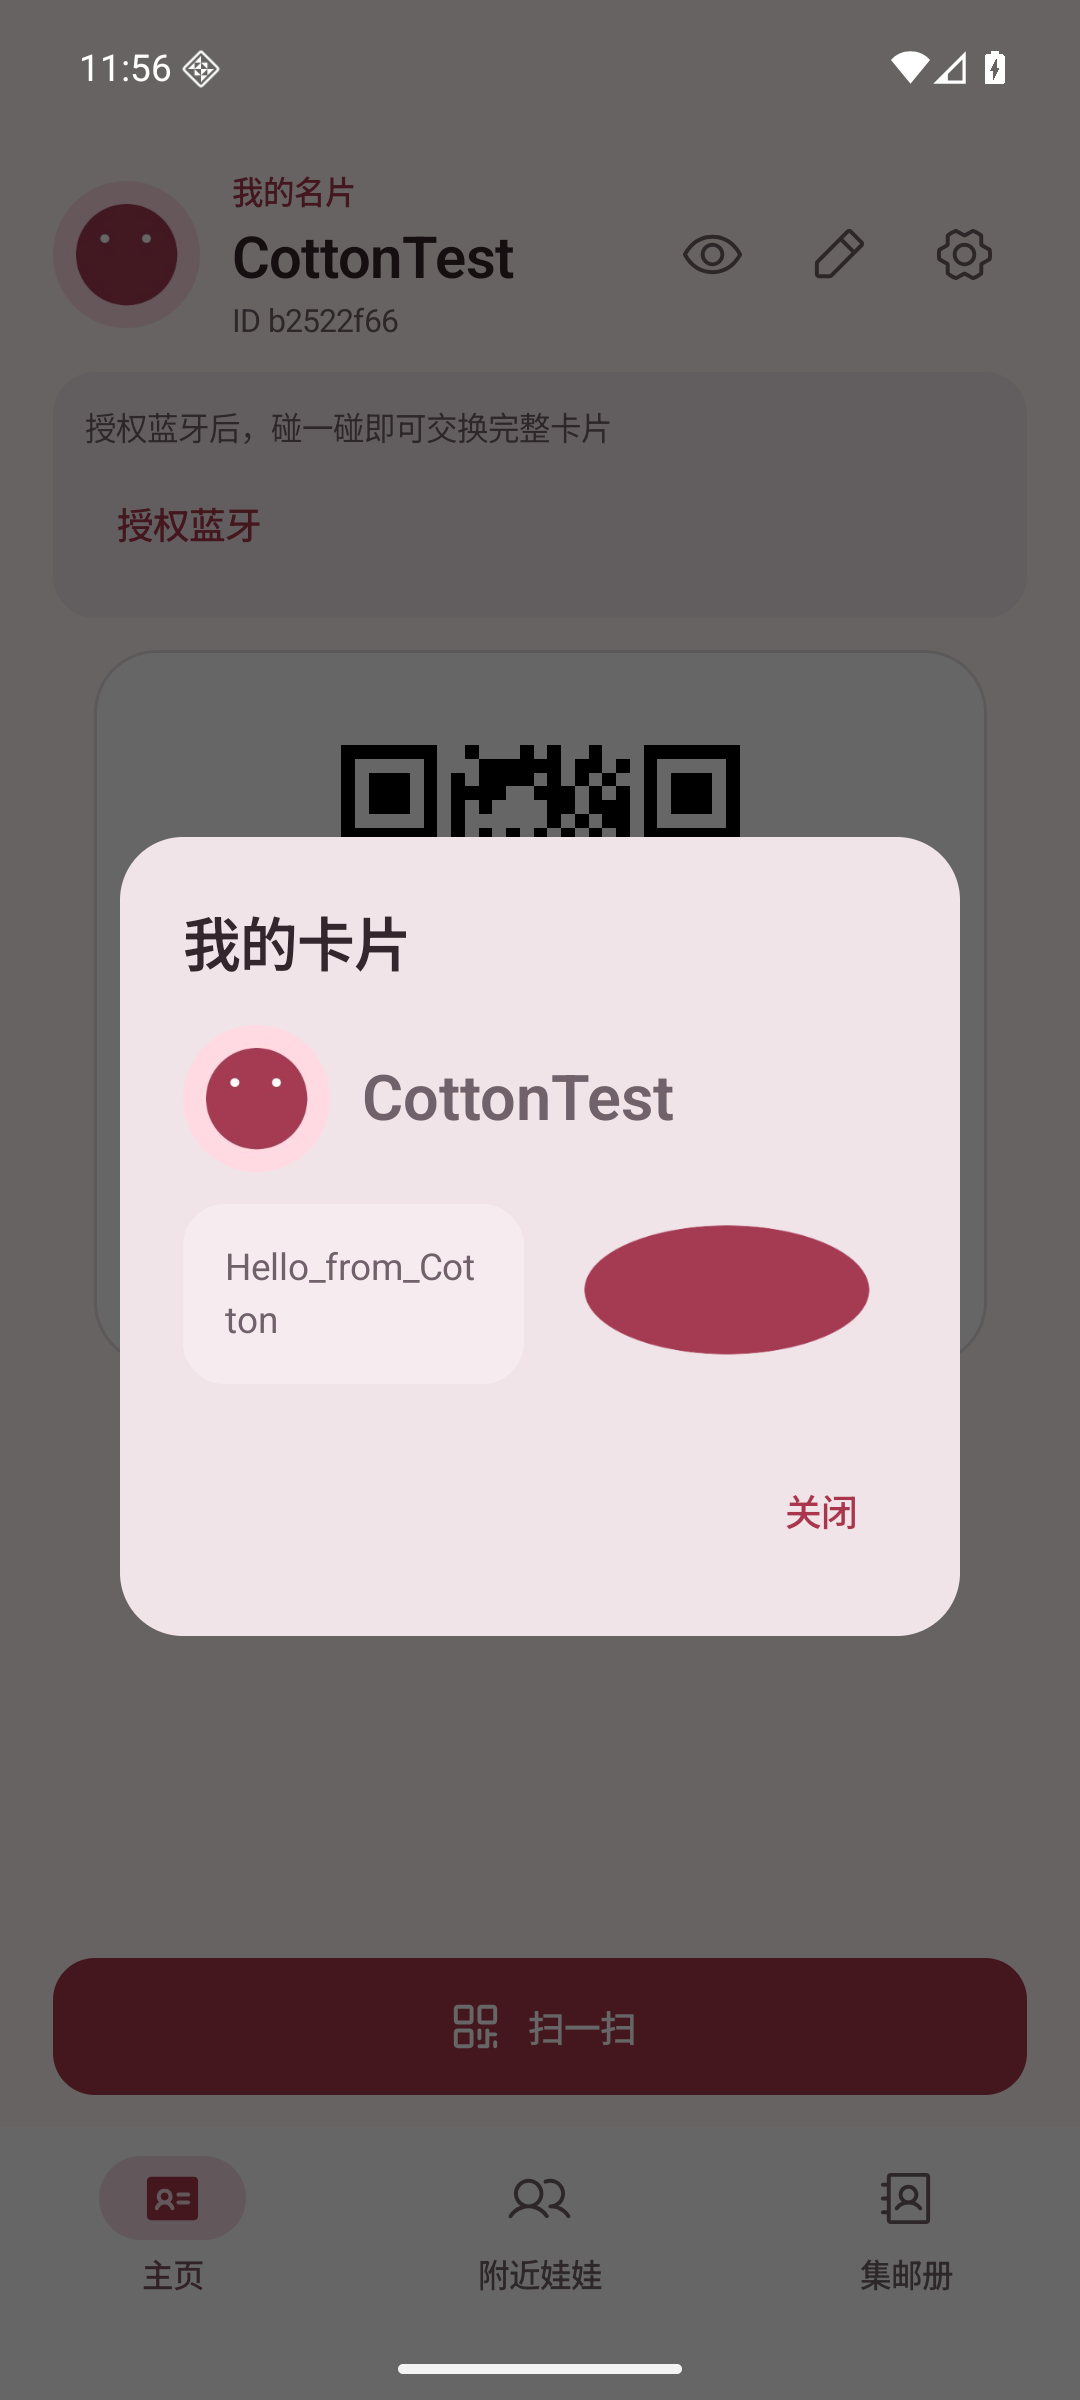
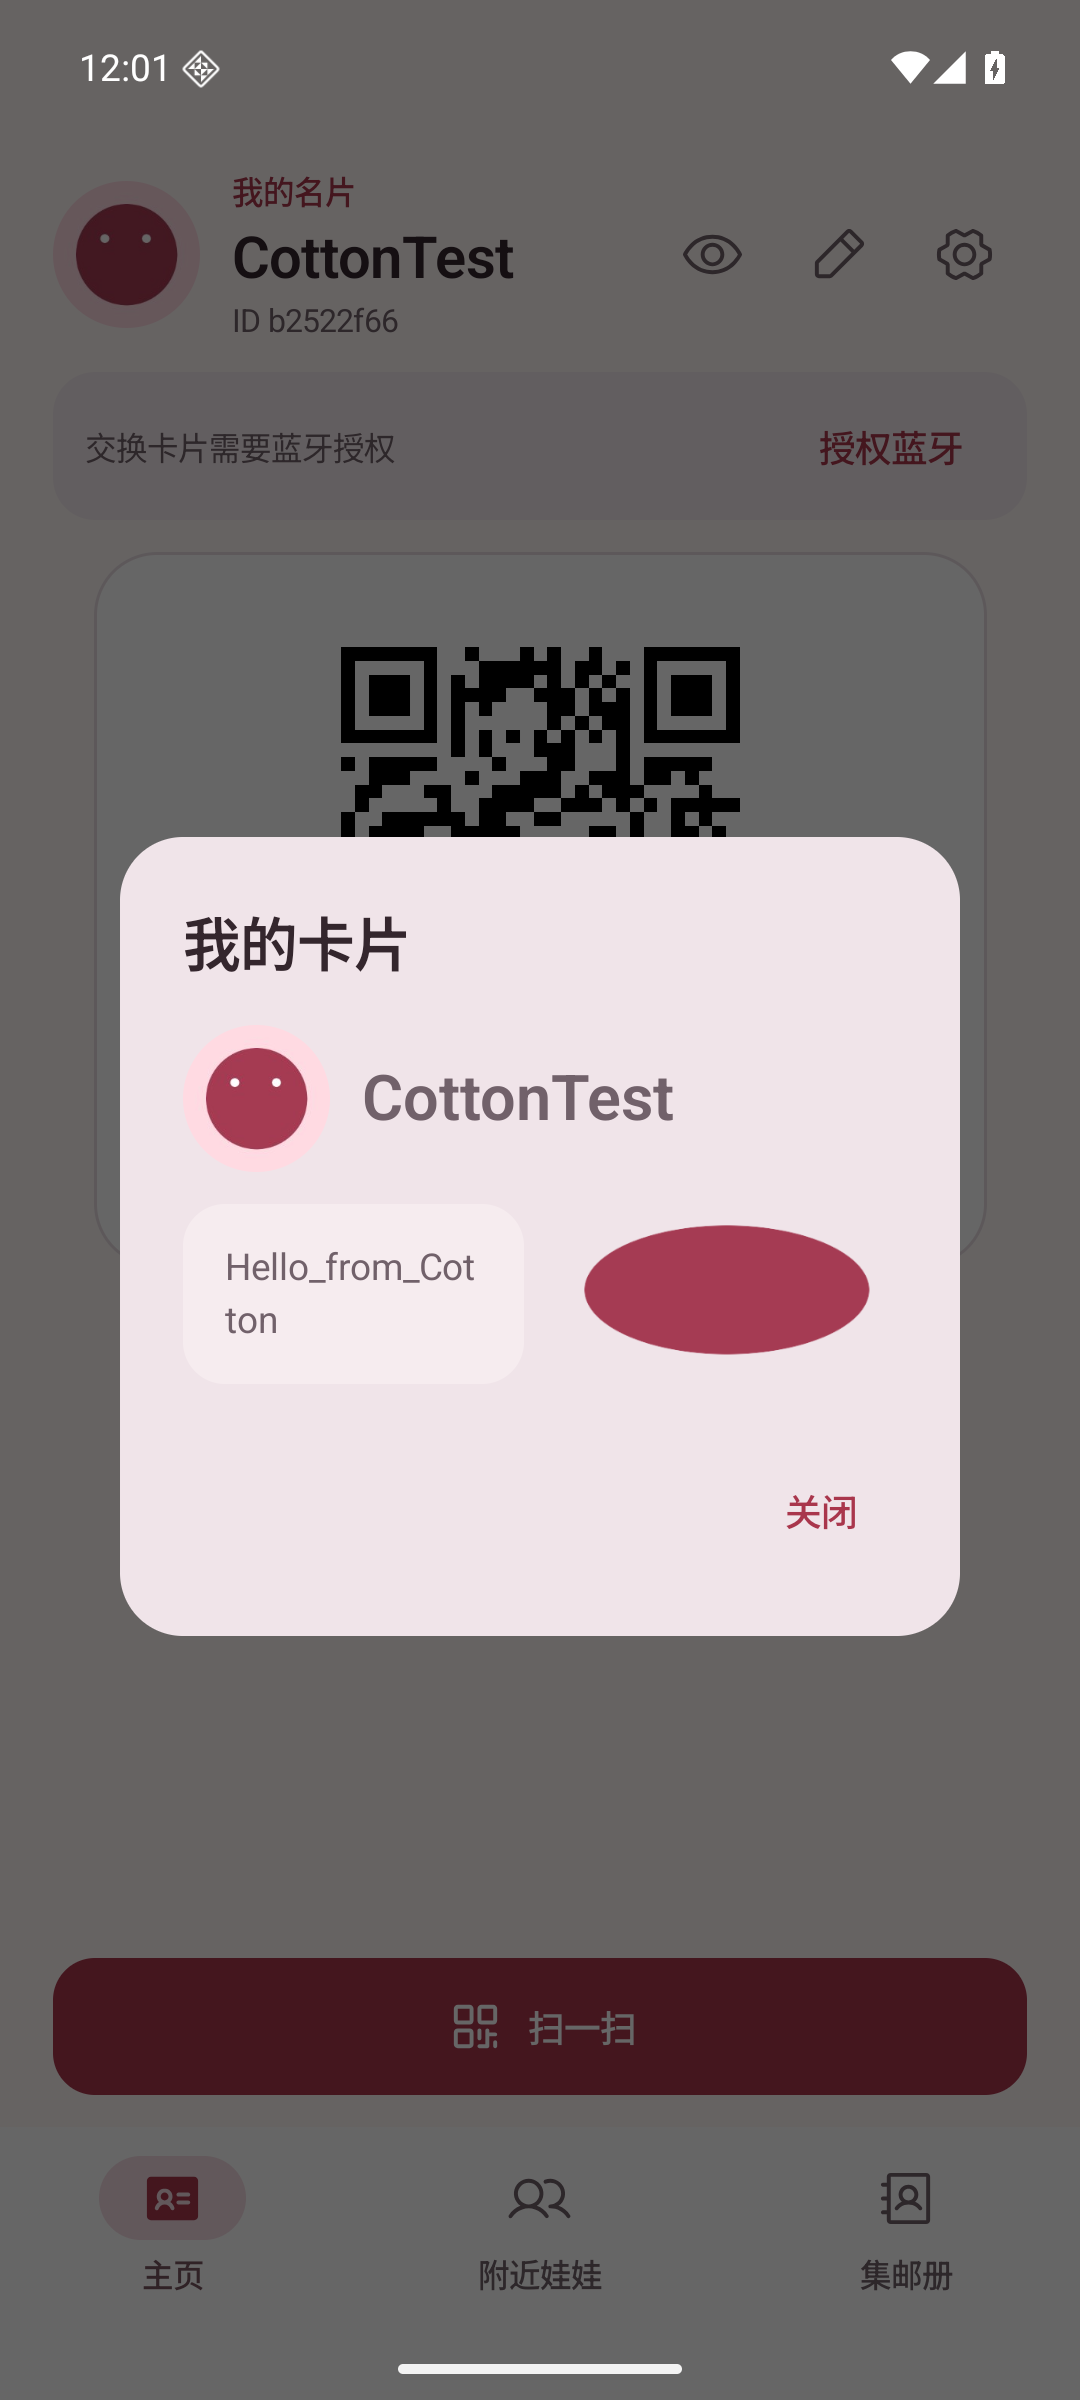
fix: 蓝牙提示与操作合并为紧凑横栏

diff --git a/app/src/main/kotlin/app/pengwa/ui/UserCard.kt b/app/src/main/kotlin/app/pengwa/ui/UserCard.kt
@@ -208,18 +208,31 @@ internal fun HomeBluetoothStatus() {
         controller.refresh()
         onPauseOrDispose { }
     }
-    if (!permitted || !bluetoothOn || status != null) Surface(
+    if (!permitted || !bluetoothOn || status != null) HomeBluetoothNotice(
+        message = when { !permitted -> "交换卡片需要蓝牙授权"; !bluetoothOn -> "请开启蓝牙以交换卡片"; else -> status.orEmpty() },
+    ) {
+        if (permitted && bluetoothOn && status != null && !status.orEmpty().contains("正在") && status != "卡片交换完成") TextButton(onClick = controller::retryDiscovery) { Text("重试连接", maxLines = 1) }
+        if (!permitted || !bluetoothOn) TextButton(onClick = {
+            if (!permitted && denied) context.startActivity(android.content.Intent(android.provider.Settings.ACTION_APPLICATION_DETAILS_SETTINGS, android.net.Uri.fromParts("package", context.packageName, null)))
+            else if (!permitted) permissions.launch(app.pengwa.ble.BlePermissions.required())
+            else enable.launch(android.content.Intent(android.bluetooth.BluetoothAdapter.ACTION_REQUEST_ENABLE))
+        }) { Text(if (!permitted) { if (denied) "前往设置" else "授权蓝牙" } else "开启蓝牙", maxLines = 1) }
+    }
+}
+
+@Composable
+internal fun HomeBluetoothNotice(message: String, action: @Composable () -> Unit = {}) {
+    Surface(
         modifier = Modifier.fillMaxWidth().padding(horizontal = 20.dp),
         color = MaterialTheme.colorScheme.surfaceContainer, shape = MaterialTheme.shapes.medium,
     ) {
-        Column(Modifier.padding(12.dp), verticalArrangement = Arrangement.spacedBy(4.dp)) {
-            Text(when { !permitted -> "授权蓝牙后，碰一碰即可交换完整卡片"; !bluetoothOn -> "请开启蓝牙以交换卡片"; else -> status.orEmpty() }, style = MaterialTheme.typography.bodySmall)
-            if (permitted && bluetoothOn && status != null && !status.orEmpty().contains("正在") && status != "卡片交换完成") TextButton(onClick = controller::retryDiscovery) { Text("重试连接") }
-            if (!permitted || !bluetoothOn) TextButton(onClick = {
-                if (!permitted && denied) context.startActivity(android.content.Intent(android.provider.Settings.ACTION_APPLICATION_DETAILS_SETTINGS, android.net.Uri.fromParts("package", context.packageName, null)))
-                else if (!permitted) permissions.launch(app.pengwa.ble.BlePermissions.required())
-                else enable.launch(android.content.Intent(android.bluetooth.BluetoothAdapter.ACTION_REQUEST_ENABLE))
-            }) { Text(if (!permitted) { if (denied) "前往设置" else "授权蓝牙" } else "开启蓝牙") }
+        Row(
+            Modifier.padding(horizontal = 12.dp, vertical = 4.dp).heightIn(min = 24.dp),
+            verticalAlignment = Alignment.CenterVertically,
+            horizontalArrangement = Arrangement.spacedBy(8.dp),
+        ) {
+            Text(message, Modifier.weight(1f), style = MaterialTheme.typography.bodySmall)
+            action()
         }
     }
 }

diff --git a/app/src/debug/kotlin/app/pengwa/ui/UiPreviews.kt b/app/src/debug/kotlin/app/pengwa/ui/UiPreviews.kt
@@ -2,6 +2,11 @@ package app.pengwa.ui
 
 import android.content.res.Configuration
 import androidx.compose.foundation.layout.*
+import androidx.compose.foundation.rememberScrollState
+import androidx.compose.foundation.verticalScroll
+import androidx.compose.ui.unit.dp
+import androidx.compose.material3.Text
+import androidx.compose.material3.TextButton
 import androidx.compose.foundation.background
 import androidx.compose.material3.Scaffold
 import androidx.compose.material3.MaterialTheme
@@ -235,4 +240,19 @@ internal fun ScannerPermissionPreview() {
 @Composable
 internal fun ContactDetailsPreview() {
     PreviewSurface { ContactDetails(previewContacts[1]) {} }
+}
+
+
+@PengWaPreviews
+@Composable
+internal fun HomeBluetoothNoticePreview() {
+    PreviewHome {
+        Column(Modifier.fillMaxSize().verticalScroll(rememberScrollState()), verticalArrangement = Arrangement.spacedBy(12.dp)) {
+            HomeBluetoothNotice("交换卡片需要蓝牙授权") { TextButton(onClick = {}) { Text("授权蓝牙", maxLines = 1) } }
+            HomeBluetoothNotice("交换卡片需要蓝牙授权") { TextButton(onClick = {}) { Text("前往设置", maxLines = 1) } }
+            HomeBluetoothNotice("请开启蓝牙以交换卡片") { TextButton(onClick = {}) { Text("开启蓝牙", maxLines = 1) } }
+            HomeBluetoothNotice("连接已断开，请保持双方应用打开后重试") { TextButton(onClick = {}) { Text("重试连接", maxLines = 1) } }
+            HomeBluetoothNotice("正在通过蓝牙交换卡片")
+        }
+    }
 }

diff --git a/app/src/debug/kotlin/app/pengwa/ui/UiPreviewActivity.kt b/app/src/debug/kotlin/app/pengwa/ui/UiPreviewActivity.kt
@@ -15,6 +15,7 @@ class UiPreviewActivity : ComponentActivity() {
         setContent {
             when (screen) {
                 "card", "card-editor", "card-received", "card-images", "card-images-editor", "card-images-received", "card-masonry", "card-masonry-editor", "card-masonry-received", "card-social", "card-social-editor", "card-social-received" -> CustomCardPreview(screen)
+                "home-bluetooth-notice" -> HomeBluetoothNoticePreview()
                 "nearby-dedup" -> NearbyDedupPreview(index)
                 "bluetooth" -> BluetoothPagePreview(BluetoothPreviewProvider().values.toList().let { it[index.coerceIn(it.indices)] })
                 "contacts" -> ContactsScreenPreview(ContactsPreviewProvider().values.toList().let { it[index.coerceIn(it.indices)] })

diff --git a/docs/screenshots/card-preview-header/README.md b/docs/screenshots/card-preview-header/README.md
@@ -1,6 +1,8 @@
-# 将查看卡片入口移入顶部
+# 主页入口与蓝牙提示的紧凑布局
 
 主页移除单独占一行的“查看我的卡片”文字按钮，在顶部头像和名字区域右侧加入眼睛图标，与编辑、设置并排。点击仍打开原有“我的卡片”弹窗。图标使用随应用打包的 Phosphor Regular Eye 矢量资源，跟随主题颜色；无障碍说明为“查看我的卡片”。
+
+蓝牙提示文字与“授权蓝牙／前往设置／开启蓝牙／重试连接”操作放在同一横栏，按钮不再单独占用一行。无授权时提示精简为“交换卡片需要蓝牙授权”。窄屏与大字体下文字可换行，操作保持在右侧。按钮继续调用现有权限请求、系统设置、开启蓝牙和重试逻辑。
 
 ## 设备与复现
 
@@ -20,6 +22,8 @@ adb -s emulator-5554 shell cmd uimode night yes # no 恢复浅色
 # 最后恢复：wm size reset；settings put system font_scale 1.0
 ```
 
+授权步骤：在主页点击“授权蓝牙”，确认出现系统权限弹窗；选择拒绝后，操作变为“前往设置”，点击可打开应用详情设置。测试前仅重置测试应用的蓝牙权限询问标志，保留测试身份和卡片数据。
+
 ## 同场景前后截图
 
 | 页面／状态 | 变更前 | 变更后 |
@@ -30,6 +34,14 @@ adb -s emulator-5554 shell cmd uimode night yes # no 恢复浅色
 | 查看卡片弹窗／深色 | ![](card-dialog-dark-before.png) | ![](card-dialog-dark-after.png) |
 | 主页／窄屏大字体 | ![](home-narrow-large-font-before.png) | ![](home-narrow-large-font-after.png) |
 | 主页／横屏紧凑布局 | ![](home-compact-before.png) | ![](home-compact-after.png) |
+| 系统蓝牙授权弹窗 | ![](permission-request-before.png) | ![](permission-request-after.png) |
+| 拒绝授权后／前往设置 | ![](permission-denied-before.png) | ![](permission-denied-after.png) |
+
+## 蓝牙替代状态的布局验证
+
+运行 Debug Activity：`app.pengwa.ui.UiPreviewActivity --es screen home-bluetooth-notice`。固定数据复用真实的 `HomeBluetoothNotice` 组件，覆盖授权、设置、开启、重试和进行中五种展示，按钮不执行硬件操作；用于检查布局，真实授权与拒绝路径另由 MainActivity 实测。
+
+[浅色](bluetooth-states-light.png)、[深色](bluetooth-states-dark.png)、[窄屏大字体](bluetooth-states-narrow.png)。
 
 ## 验证
 
@@ -37,3 +49,4 @@ adb -s emulator-5554 shell cmd uimode night yes # no 恢复浅色
 - 模拟器核对顶部右侧眼睛按钮、原按钮行移除、深浅主题和窄屏大字体／横屏布局。
 - 点击眼睛图标可打开原有卡片弹窗，点击“关闭”返回主页。
 - 同机操作核对编辑名片与设置（后台蓝牙广播）仍可打开，退出后返回主页。
+- 实际 MainActivity 核对蓝牙系统授权弹窗、拒绝后“前往设置”的同行排布，并实际打开应用详情设置。
